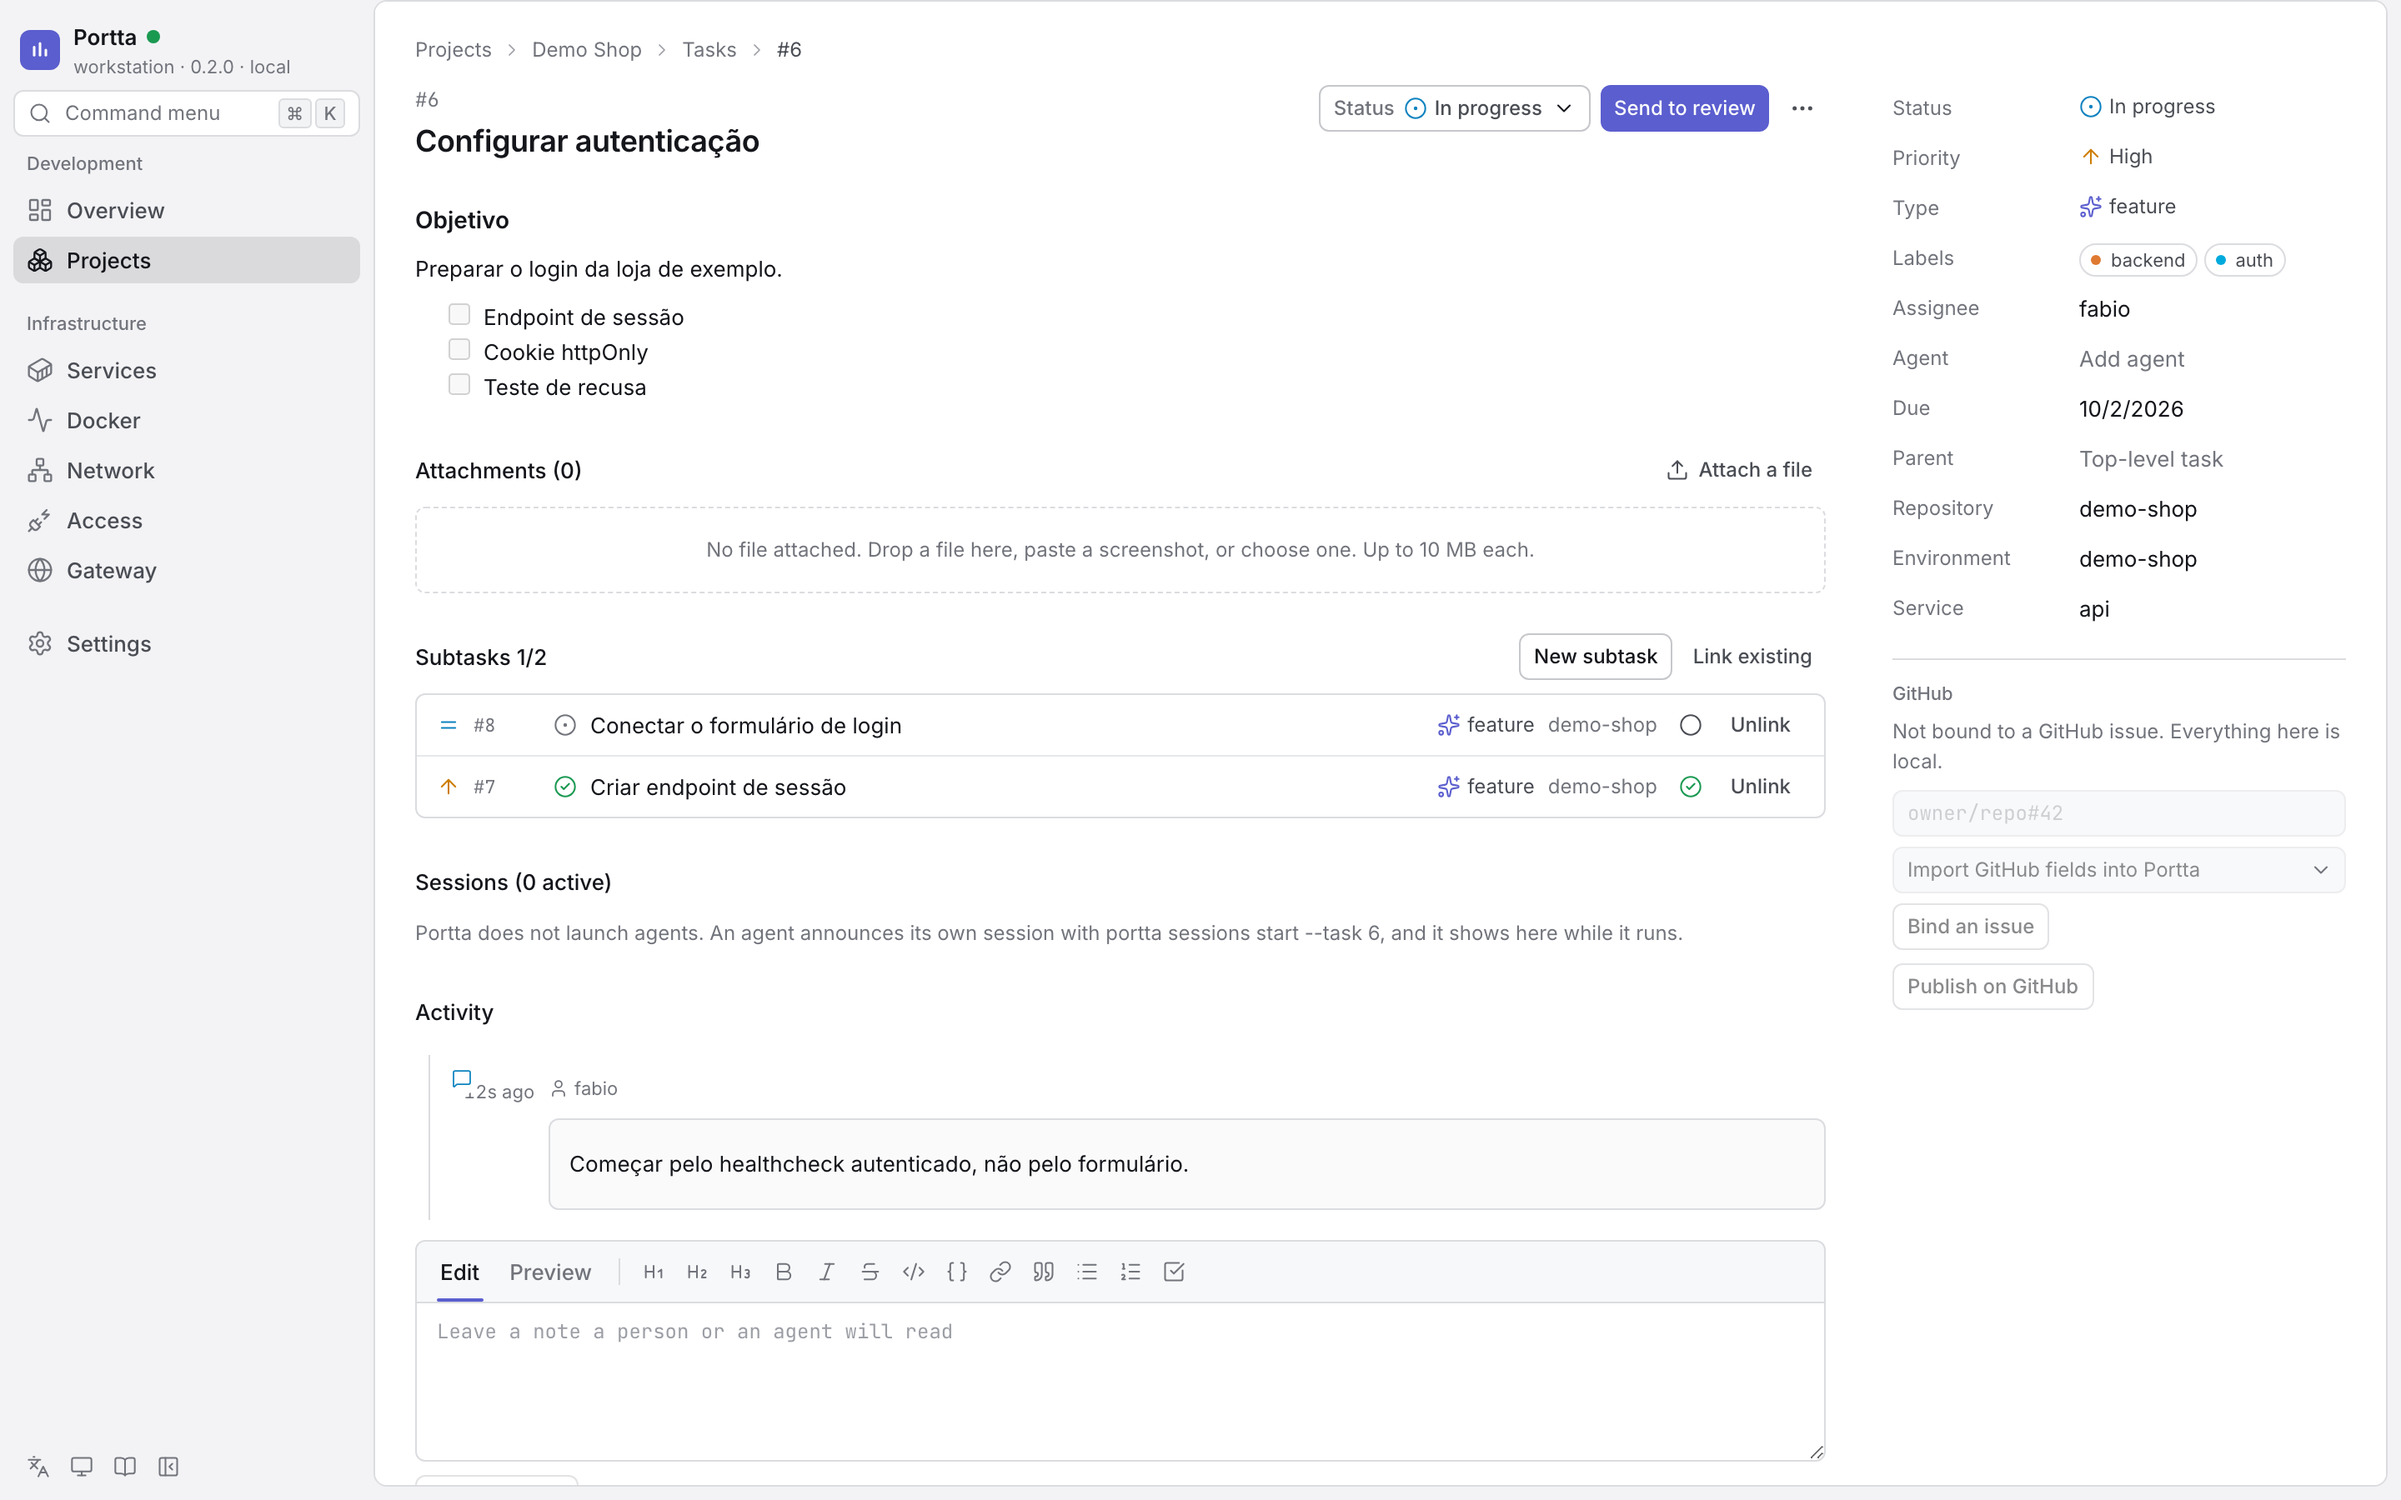
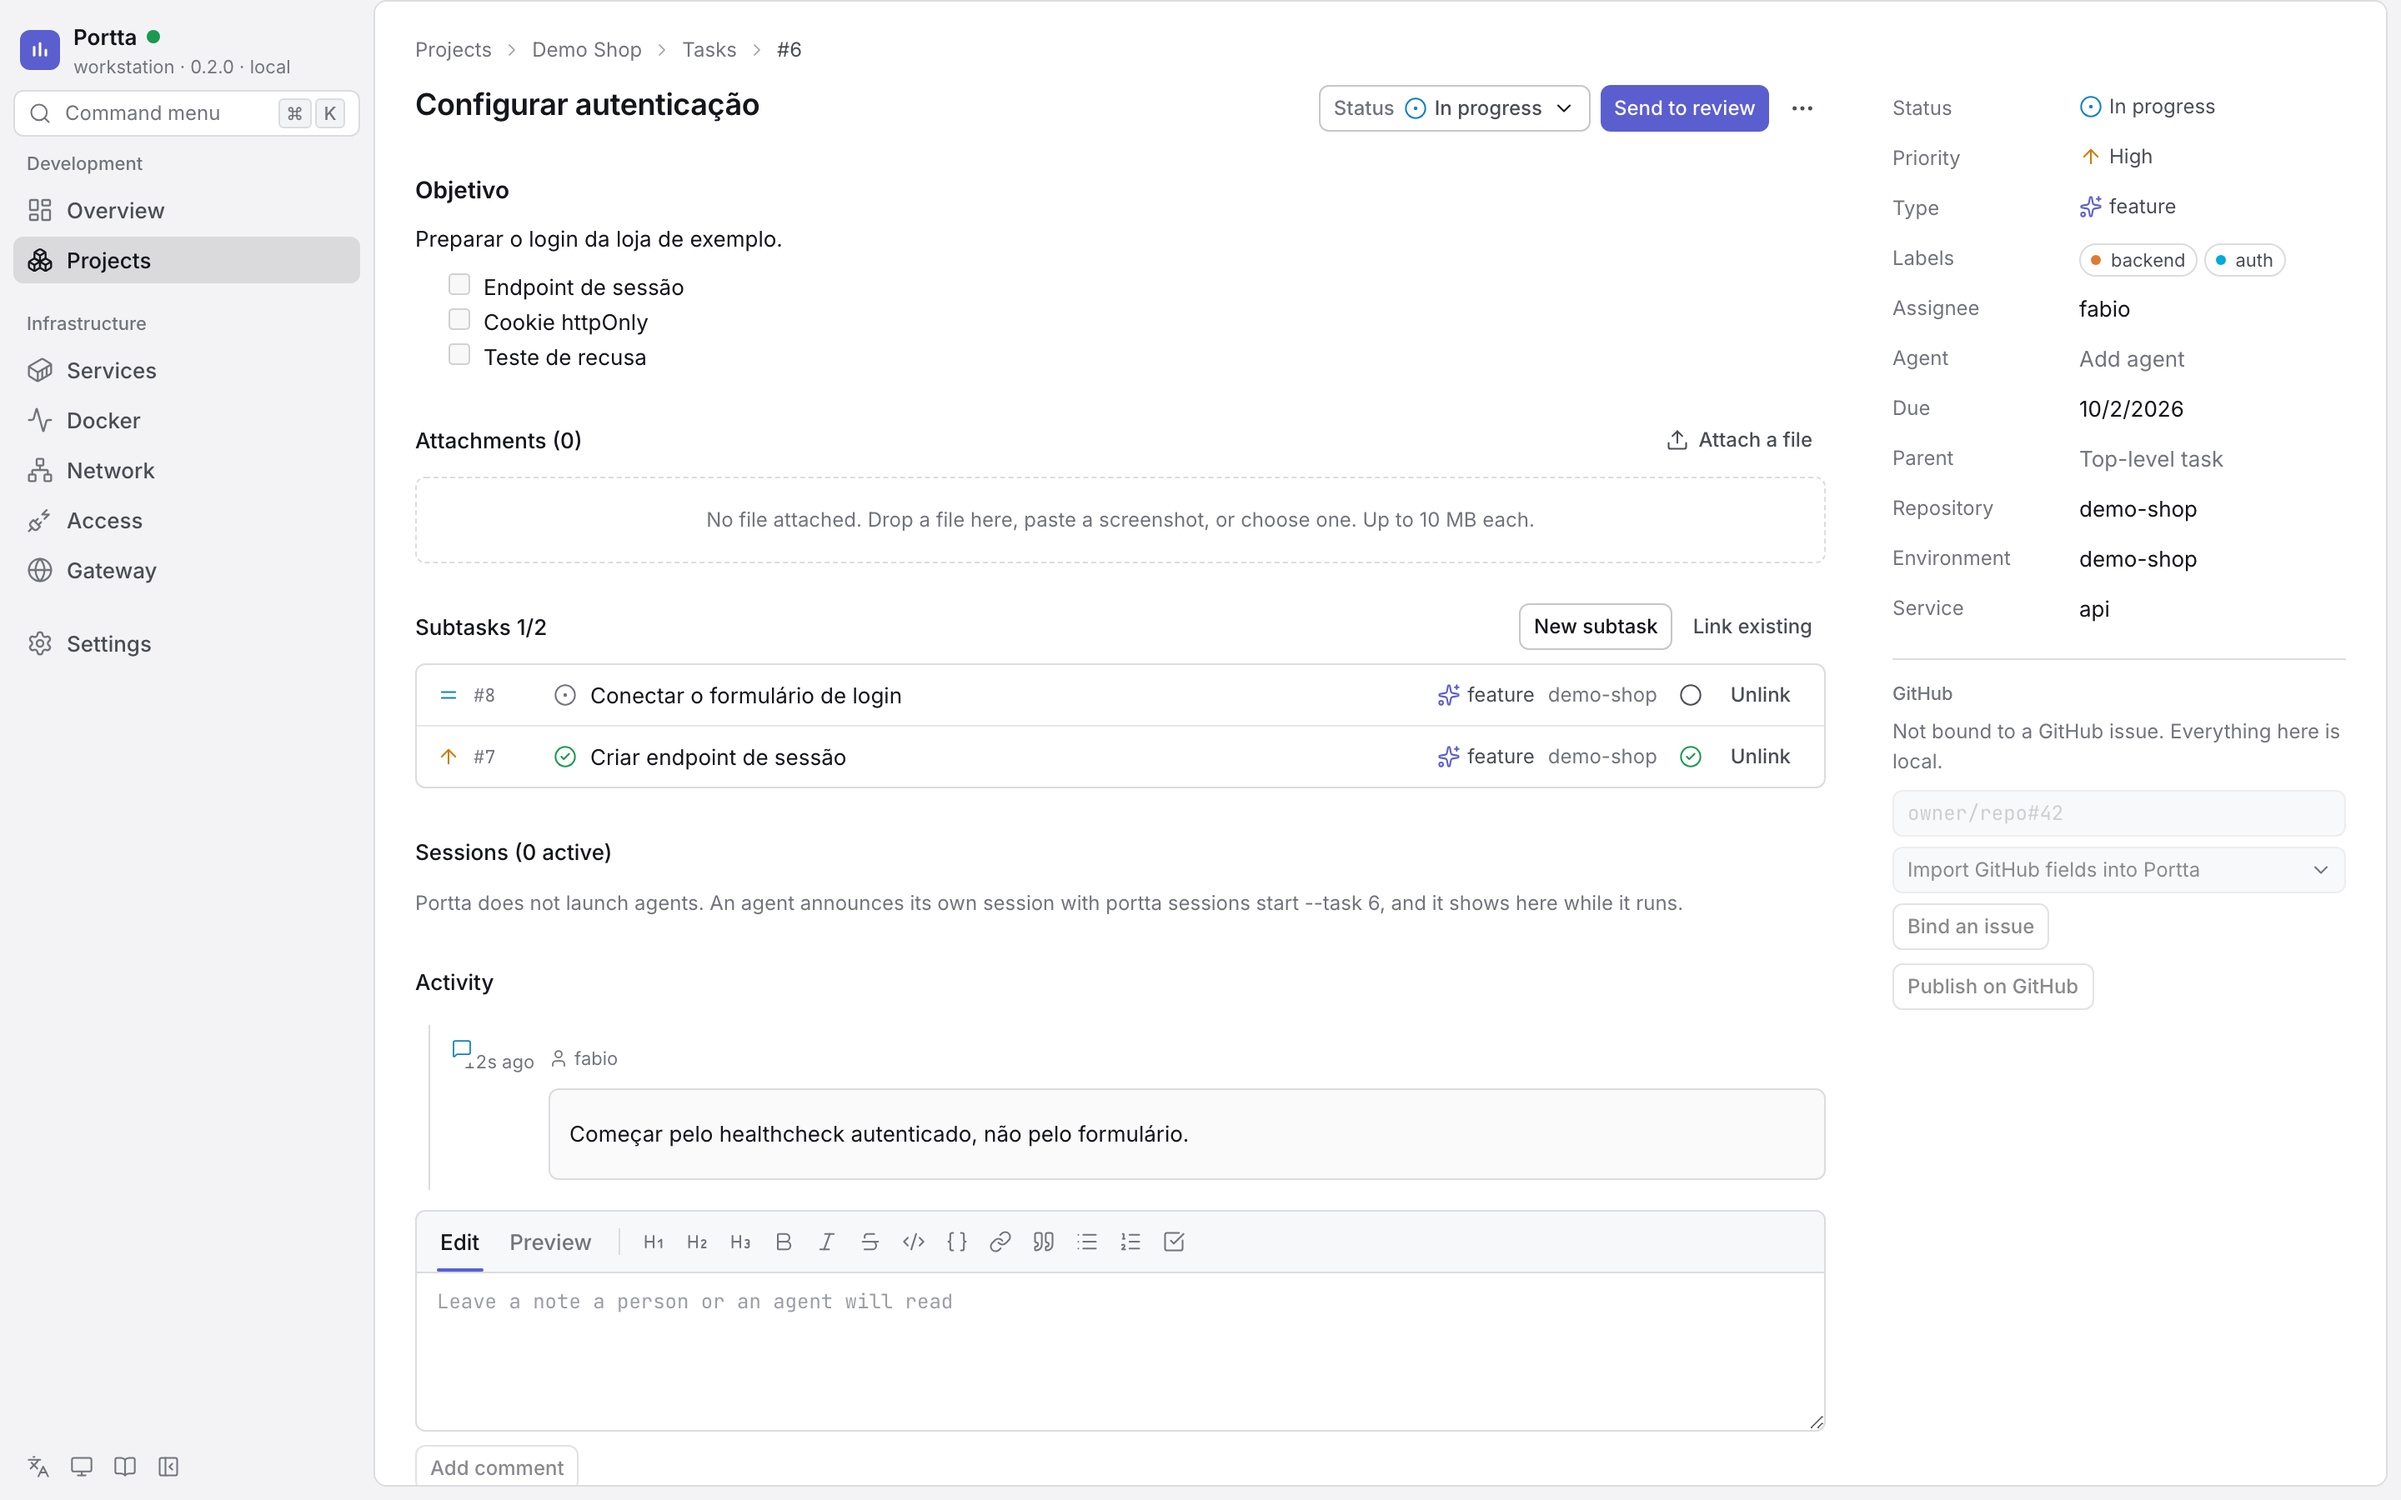
fix(ui): say a task's id once, in the breadcrumb
The task page said "#3" twice, four pixels apart: as the last step of the
breadcrumb and again on its own line under it. The breadcrumb's contract
already covers that — its last item is the entity the page is about — so
the second one carried nothing.

The line it sat on stays for what the breadcrumb cannot say: the draft
badge and the save state. Both are usually absent, so the line is now
rendered only when one of them is there, rather than leaving its margin
above the title.

Nothing else moves: the id keeps its crumb on a subtask's page too
(Tasks › #42 › #44), and the document title still opens with it.

diff --git a/apps/web/src/ui/components/tasks/task-workspace.tsx b/apps/web/src/ui/components/tasks/task-workspace.tsx
@@ -75,13 +75,17 @@ export function TaskWorkspace({
       <div className="min-w-0 space-y-6">
         <div className="flex flex-wrap items-start justify-between gap-3">
           <div className="min-w-0 flex-1">
-            <div className="mb-1 flex flex-wrap items-center gap-2">
-              <Mono kind="id" tone="subtle" className="text-xs">#{task.id}</Mono>
-              {task.draft ? <Badge tone="outline">{t('draft.badge')}</Badge> : null}
-              {saveState === 'saving' ? <span className="text-xs text-subtle">{t('save.saving')}</span> : null}
-              {saveState === 'saved' ? <span className="text-xs text-subtle">{t('save.saved')}</span> : null}
-              {saveState === 'error' ? <span className="text-xs text-danger">{t('save.failed')}</span> : null}
-            </div>
+            {/* The id is the last step of the breadcrumb above; this line
+                carries only what the breadcrumb cannot say, and takes no room
+                when there is none. */}
+            {task.draft || (saveState && saveState !== 'idle') ? (
+              <div className="mb-1 flex flex-wrap items-center gap-2">
+                {task.draft ? <Badge tone="outline">{t('draft.badge')}</Badge> : null}
+                {saveState === 'saving' ? <span className="text-xs text-subtle">{t('save.saving')}</span> : null}
+                {saveState === 'saved' ? <span className="text-xs text-subtle">{t('save.saved')}</span> : null}
+                {saveState === 'error' ? <span className="text-xs text-danger">{t('save.failed')}</span> : null}
+              </div>
+            ) : null}
             <EditableTitle
               value={task.title}
               draft={task.draft}

diff --git a/apps/web/tests/ui/task-page.test.tsx b/apps/web/tests/ui/task-page.test.tsx
@@ -104,6 +104,10 @@ describe('one task', () => {
     expect(await within(nav).findByRole('link', { name: 'Meu Produto' })).toHaveAttribute('href', '#/projects/produto')
     expect(within(nav).getByRole('link', { name: 'Tasks' })).toHaveAttribute('href', '#/projects/produto/tasks')
     expect(within(nav).getByText('#42')).toHaveAttribute('aria-current', 'page')
+    // The crumb is where the page says which task this is, so the column
+    // above the content holds the title and nothing repeating it.
+    const heading = screen.getByRole('heading', { name: 'Implementar refresh token' })
+    expect(heading.parentElement?.parentElement).toHaveTextContent(/^Implementar refresh token$/)
     expect(screen.queryByRole('link', { name: 'All tasks' })).toBeNull()
     expect(screen.queryByRole('link', { name: 'Part of #42' })).toBeNull()
   })
